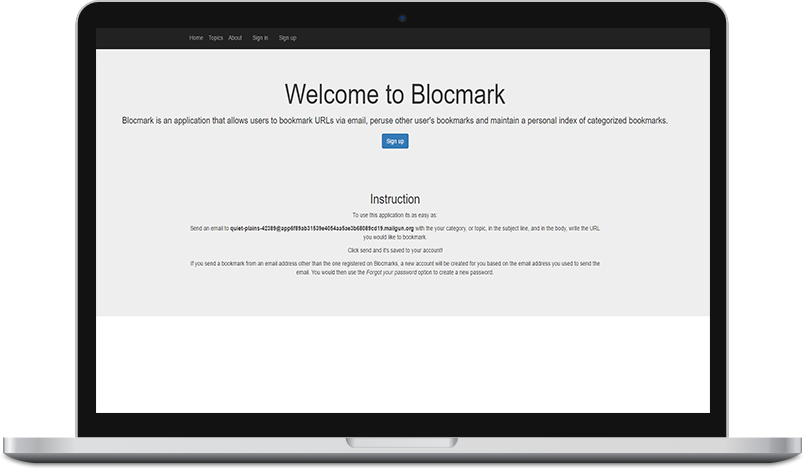
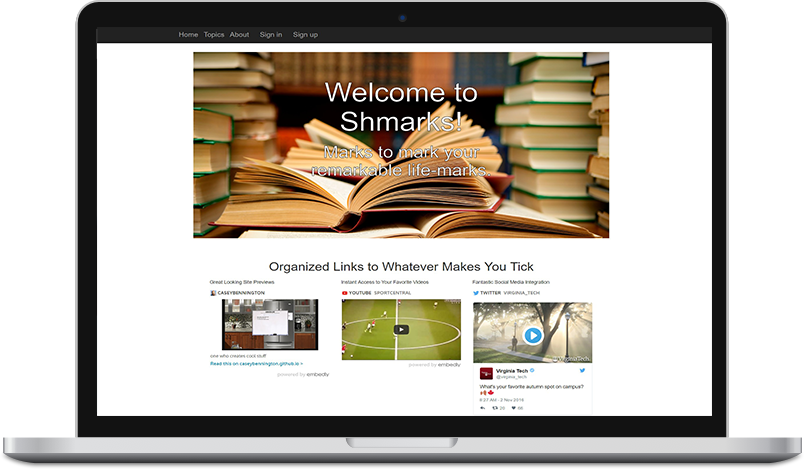
Added portfolio project

Changed region(s): [[0.1244, 0.0597, 0.9017, 0.8955]]

diff --git a/_portfolio/shmarks.md b/_portfolio/shmarks.md
@@ -1,0 +1,49 @@
+---
+layout: post
+title: Shmarks
+thumbnail-path: "img/shmarks.png"
+short-description: Shmarks is a social bookmarking application that allows users to email, manage and share bookmarked URLs.
+date: 13/06/2016
+hide: false
+---
+
+{:.center}
+[![Demo]({{ site.baseurl }}/img/shmarks.png)](https://github.com/CaseyBennington/Shmarks)
+
+## Summary
+
+Shmarks is a social bookmarking application that allows users to email, manage, and share bookmarked URLs. This project was undertaken to further my understanding in the world of Ruby and Rails.
+
+## Explanation
+
+This project allowed for additional experimentation and much more work with gems and their requisite API’s, than did my other Ruby projects, which was both a challenge and a reward.
+
+The project was designed to be a bookmark management application. Users could save bookmarks under their accounts and under different Topics. They could manage them via the application itself or through emailing the links to specific email address that would add it to their account or create an account if that user had not already done so.
+
+## Problem
+
+It addition to getting the basic functionality of the project up and running, and building on my previous project experiences, I took a significantly greater focus on learning how to implement a testing environment.
+Additionally, setting up a free service and the associated incoming mail controller to handle incoming emails provide to be quite challenging.
+
+## Solution
+
+To start off, I had to build the necessary models for the wikis and users and their associated controllers and views. I used the Devise and Pundit gems to handle my authentication and authorization respectively. For the users' account page, I decided to throw in the Gravatar image to give a little bit of personality to the users' account pages. In order to get the email functionality implemented, I chose to use the simple add-on on Heroku called, SendGrid.
+This simple little add-on allowed me to have my application send emails at no cost. Great!
+
+My original free resource for outgoing mail, SendGrid, did not offer the functionality that I needed for allow users to send email to the application, so after further research, I discovered Mailgun. Mailgun, however, was very limited in how I was allowed to use their service given that I was not hosting my application on it's own domain, but instead, on Herkou. Unfortunately, this was a limitation that could not be overcome and I settled for the limited functionality.
+
+EDIT: I have been notified that even my limited functionality solution for incoming mail will be coming to an end. Mailgun has informed me that they will be requiring all accounts to register their domains and since I am just using a free server with Heroku to host this application, I do not have a domain to register and thus the incoming mail functionality will be ending as of December 1, 2016.
+
+I wanted to create a good experience for my users in navigating between topics and bookmarks so I used a gem to assist in this, Friendly_id. Friendly_id was used to alter my original IDs that were used in the URLs for each bookmark so that they were more human readable. R
+
+As for my testing environment, I used RSpec and my testing framework instead of Rails' built in framework. Additionally, I used FactoryGirl to create testing factories for my tests and faker to populate those factories with random data. I used Capybara to implement integration testing that walked through my application as if it was a real user. In implementing Capybara, I ran across some newer issues with having it's JavaScript driver correctly installed. It is more complicated than I have room here to go through, however, it seems there are a variety of bugs for each of the JavaScript drivers you might chose as well as depending on which OS and which OS version you are using. Each variant has a different solution in order to get your chosen JavaScript driver, i.e. Chrome, Selenium, webdriver, to install. Once installed, I was able to setup my tests for my models, controllers, and integrations implemented with the help of the Launchy gem which gave my a screenshot of what has happening at the moment of failure for each test. Wonderful gem.
+
+## Results
+
+As my second project in the course and my second functioning application created I would say that Shmarks was a success. From a functional perspective the code works and is as efficient as I was able to create at the time, the tests could be improved and I will get better with each new application I create.
+
+The application gave me tons of things to learn about and work on and that felt really good. The gems I used seemed to work great together, especially using Pundit and Devise together. I can definitely see why so many devs use them to obfuscate the authorization and authentication functionality, especially after having implemented those by hand in a prior project.
+
+## Conclusion
+
+As this project was my second coding creation I am again very proud of it. This project in particular turned out to be very instructive, more of a challenge and even more rewarding as this showed me that I can work with Ruby, Ruby on Rails, HTML, CSS, utilize new gem’s and their API’s, mailers and even learn to work with testing while creating a fully functioning web application.
